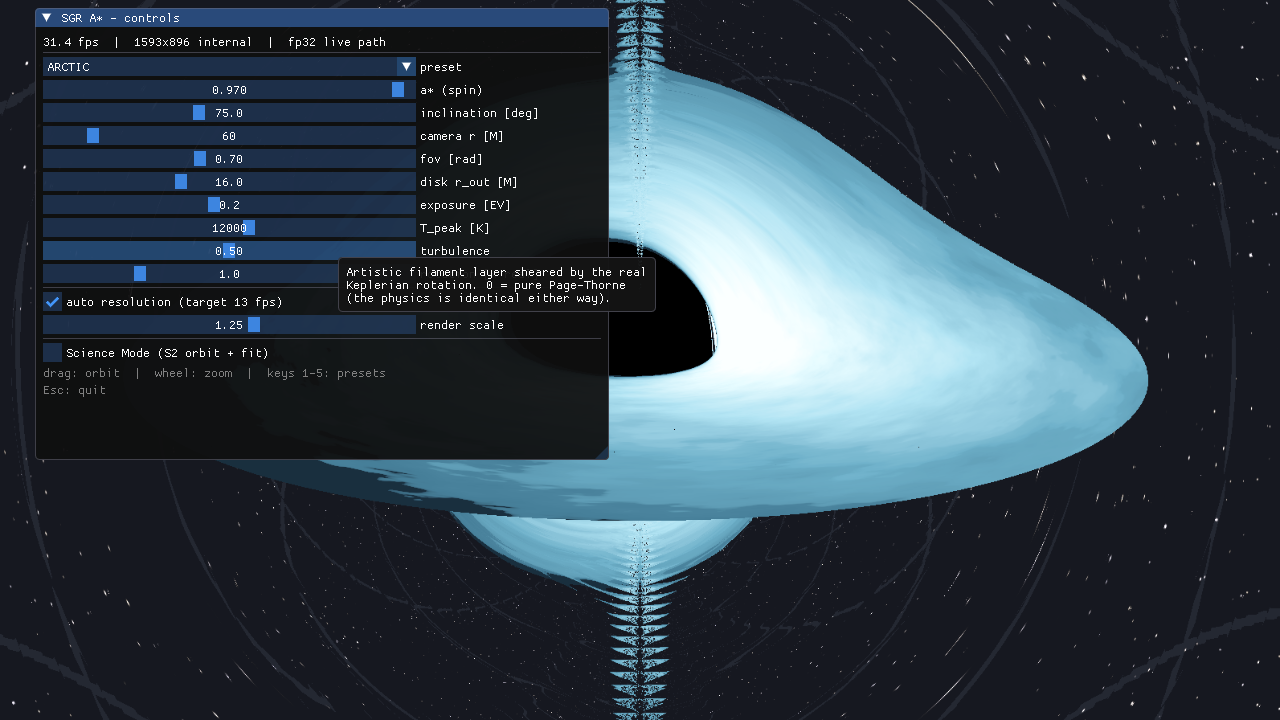
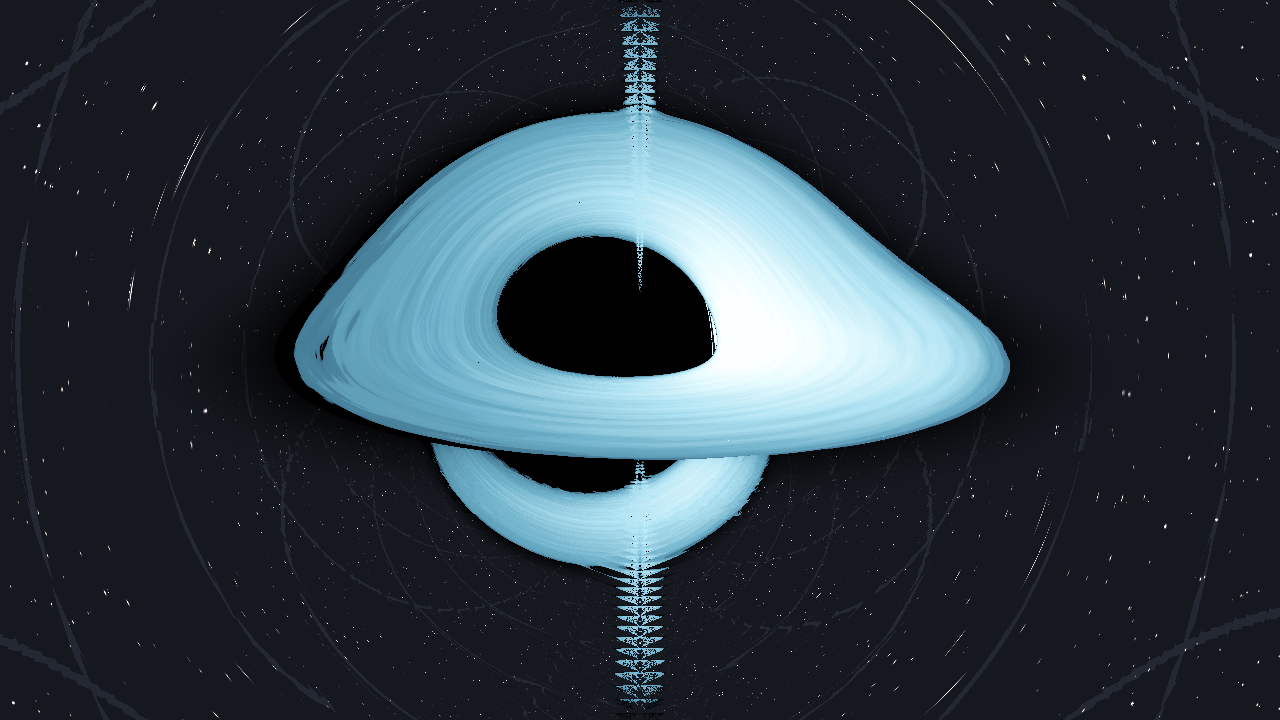
feat: NASA-look disk - wound streamlines, translucent rim, seam-free noise
Why the disk read as a brick next to the NASA GSFC visualisation, and
the fixes:

- Filaments were fresh isotropic noise; real turbulence is shear-wound.
  A static winding term (120*Omega, r-dependent) bakes trailing
  streamlines into the pattern at rest; anisotropic sampling (fine in
  log r, coherent along the orbit) makes them read as continuous lines.
- The noise was not 2pi-periodic in azimuth: the phi=+-pi seam projects
  exactly onto the image's central column (zipper teeth). Lattice hash
  is now periodic in phi with the period doubled per octave.
- The disk was opaque to the model edge, cutting a star-free silhouette.
  Artistic presets now composite front-to-back with a translucent rim
  (opacity ramp + exponential stops-based emissivity taper), so the disk
  dissolves into the starfield and lensed structure shows through the
  veil. PHYSICAL preset keeps the exact opaque Page-Thorne annulus.
- Everything below the log display window rendered dark maroon instead
  of black: luma floor now sits below the 24-stop window and the LUT
  ramps hold true black through u=0.10.
- Softer lane depth (~3.5 stops) so the hugely magnified caustic image
  of the lanes stays smooth; axis supersampling widened to +-6 px.
- Performance: translucent grazing rays used to re-bisect every planar
  oscillation and burn the full 1200-step budget near the hole (45 fps
  -> 3 fps). Radial quick-reject before bisection, a grazing shortcut,
[…]

Changed region(s): [[0.0312, 0.0, 0.9062, 1.0], [0.0938, 0.55, 0.125, 0.5806]]

diff --git a/scripts/gen_luts.py b/scripts/gen_luts.py
@@ -84,26 +84,33 @@ def main() -> None:
     # live renderer's 24-stop log window the outer disk sits at u ≈ 0.1–0.4,
     # and a ramp that is flat there quantizes the whole outer disk to one
     # colour (and hides the turbulence filaments).
+    # Each ramp starts at TRUE BLACK: with the rim fade and the deep
+    # turbulence lanes the faint end must dissolve into space (like the
+    # NASA GSFC visualisation), not paint an opaque coloured slab.
     save_lut("firestorm", ramp([
-        (0.00, (0.010, 0.001, 0.001)), (0.10, (0.060, 0.005, 0.003)),
+        (0.00, (0.0, 0.0, 0.0)), (0.10, (0.002, 0.0, 0.0)),
+        (0.18, (0.030, 0.003, 0.002)),
         (0.30, (0.28, 0.03, 0.01)), (0.50, (0.62, 0.10, 0.02)),
         (0.68, (0.92, 0.30, 0.03)), (0.85, (1.0, 0.60, 0.10)),
         (1.00, (1.0, 0.93, 0.72)),
     ]))
     save_lut("gargantua", ramp([
-        (0.00, (0.008, 0.012, 0.030)), (0.12, (0.04, 0.07, 0.14)),
+        (0.00, (0.0, 0.0, 0.0)), (0.10, (0.002, 0.003, 0.007)),
+        (0.18, (0.03, 0.05, 0.10)),
         (0.30, (0.14, 0.22, 0.38)), (0.50, (0.38, 0.45, 0.60)),
         (0.68, (0.75, 0.70, 0.60)), (0.85, (0.98, 0.90, 0.70)),
         (1.00, (1.0, 1.0, 1.0)),
     ]))
     save_lut("arctic", ramp([
-        (0.00, (0.002, 0.010, 0.020)), (0.12, (0.02, 0.07, 0.12)),
+        (0.00, (0.0, 0.0, 0.0)), (0.10, (0.001, 0.003, 0.005)),
+        (0.18, (0.015, 0.05, 0.09)),
         (0.30, (0.06, 0.22, 0.33)), (0.50, (0.16, 0.45, 0.60)),
         (0.70, (0.45, 0.78, 0.90)), (0.88, (0.80, 0.97, 1.00)),
         (1.00, (0.97, 1.0, 1.0)),
     ]))
     save_lut("nebula", ramp([
-        (0.00, (0.012, 0.001, 0.025)), (0.12, (0.06, 0.01, 0.11)),
+        (0.00, (0.0, 0.0, 0.0)), (0.10, (0.003, 0.0, 0.006)),
+        (0.18, (0.04, 0.007, 0.075)),
         (0.30, (0.18, 0.03, 0.28)), (0.50, (0.45, 0.09, 0.45)),
         (0.68, (0.78, 0.22, 0.52)), (0.85, (1.0, 0.52, 0.52)),
         (1.00, (1.0, 0.86, 0.66)),

diff --git a/engine/src/app.cpp b/engine/src/app.cpp
@@ -675,8 +675,9 @@ int App::run() {
         } else {
             dragging_ = false;
         }
-        if (hud_) hud_->new_frame(fps_now);
-
+        // Render-scale change: rebuild the target between frames, before
+        // ImGui starts building this frame's draw data (keeps the rebuild
+        // from interleaving with any per-frame CPU state).
         if (target_rebuild_) {
             target_rebuild_ = false;
             live_.render_scale = std::clamp(live_.render_scale, 0.25f, 2.0f);
@@ -684,6 +685,8 @@ int App::run() {
             destroy_render_target();
             create_render_target();
         }
+
+        if (hud_) hud_->new_frame(fps_now);
 
         auto& f = ctx_->frame(frame_slot);
         vkWaitForFences(ctx_->device(), 1, &f.in_flight, VK_TRUE, UINT64_MAX);
